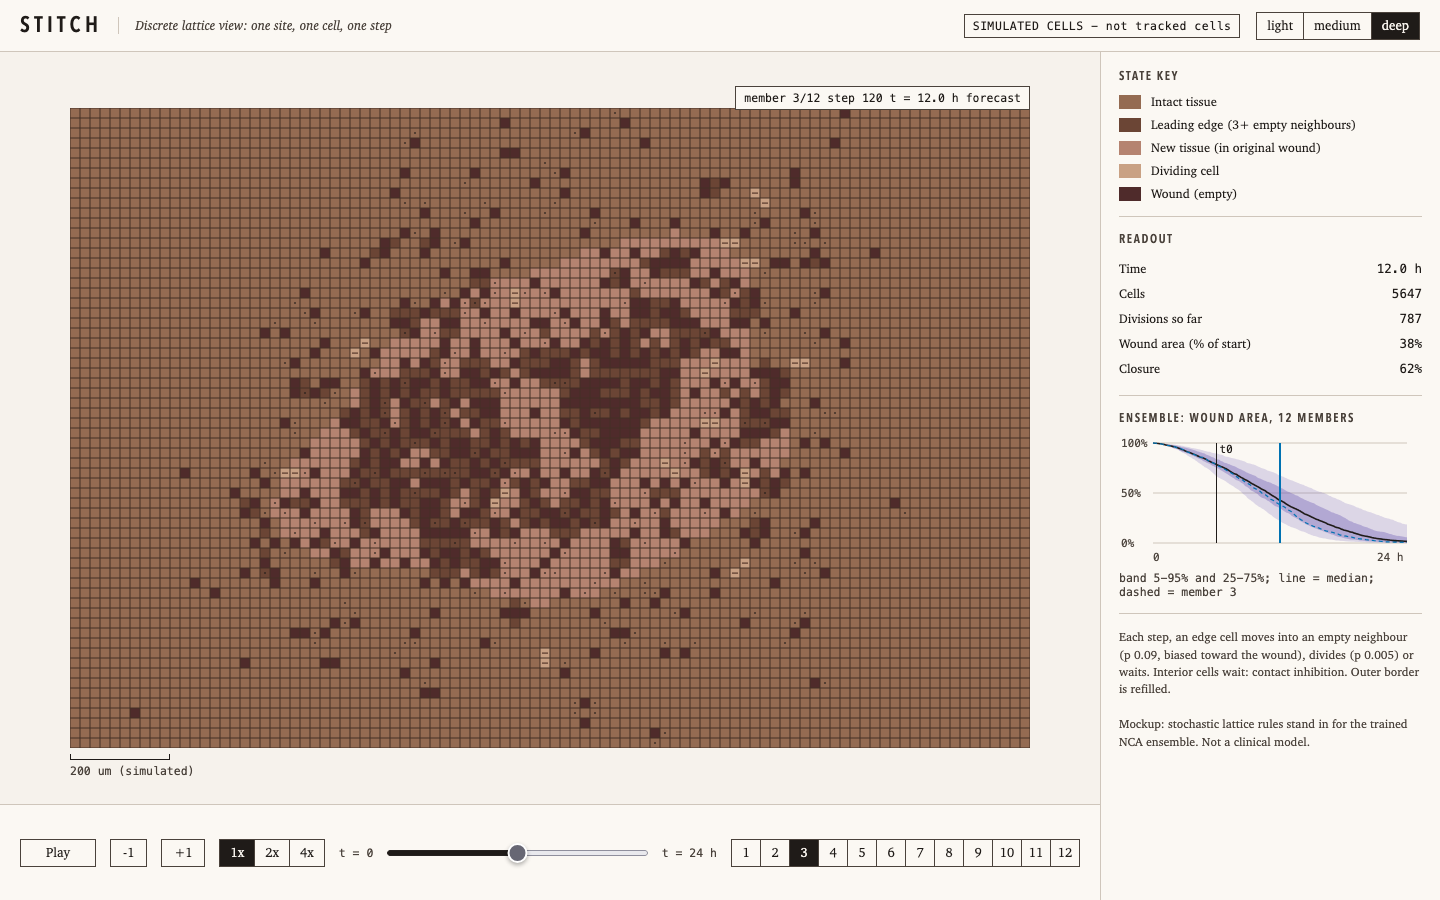
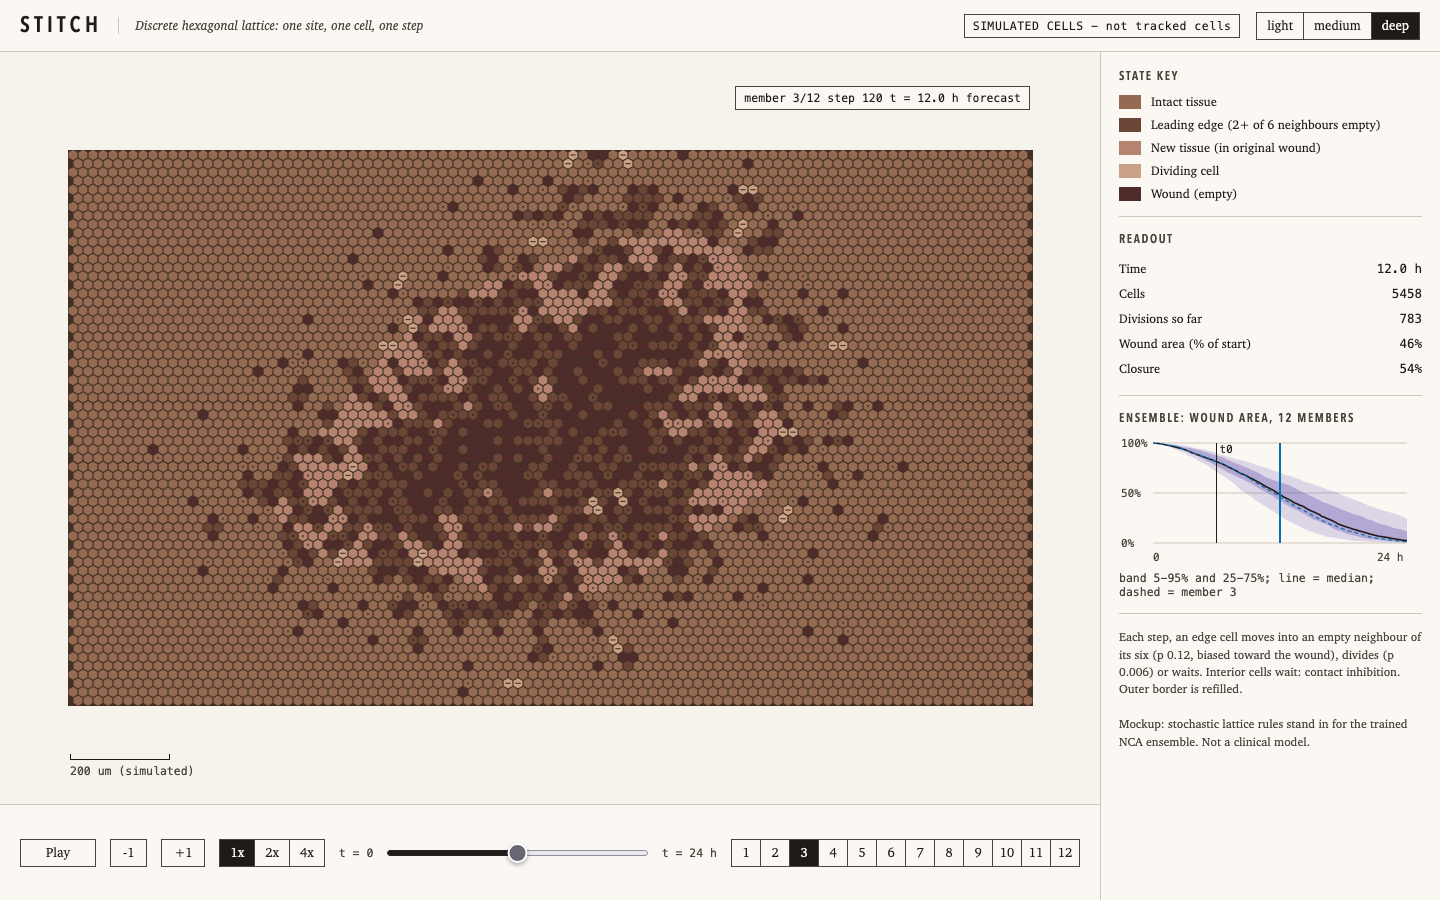
NCA mockups: hexagonal lattice for the discrete grid (M10); organic view shares it

diff --git a/design/shared/ncamock.js b/design/shared/ncamock.js
@@ -6,26 +6,28 @@ const PALS={
   light:{intact:'#E9D3C0',edge:'#C98F7C',div:'#F8EEDC',fresh:'#F3D9D2',wound:'#B0645C'},
   medium:{intact:'#CBA783',edge:'#A87558',div:'#EAD6B4',fresh:'#DDB3A3',wound:'#92514A'},
   deep:{intact:'#946B52',edge:'#6B4535',div:'#C9A184',fresh:'#B58370',wound:'#4F2B2B'}};
-const OPT={W:96,H:64,steps:240,pm:.09,pd:.005,beta:1.6,refill:.07,hoursPerStep:.1,t0:60};
+const OPT={W:96,H:64,steps:240,pm:.12,pd:.006,beta:1.6,refill:.07,hoursPerStep:.1,t0:60};
 const hex=h=>[1,3,5].map(i=>parseInt(h.slice(i,i+2),16));
 const mix=(a,b,t)=>{const A=hex(a),B=hex(b);return'#'+A.map((v,i)=>Math.round(v+(B[i]-v)*t).toString(16).padStart(2,'0')).join('')};
 function rng(seed){let s=seed>>>0;return()=>{s=(s+0x6D2B79F5)>>>0;let t=s;t=Math.imul(t^t>>>15,t|1);t^=t+Math.imul(t^t>>>7,t|61);return((t^t>>>14)>>>0)/4294967296}}
 
+const HY=.8660254,PXc=(x,y)=>x+.5*(y&1)+.5,PYc=y=>y*HY+.5;
+const NBE=[[1,0],[-1,0],[0,-1],[-1,-1],[0,1],[-1,1]],NBO=[[1,0],[-1,0],[1,-1],[0,-1],[1,1],[0,1]];
+const nbrsOf=y=>(y&1)?NBO:NBE;
 function run(seed,record){
   const o=Object.assign({},OPT),W=o.W,H=o.H,N=W*H,R=rng(seed*7919+13),S=rng(5);
   o.pm*=.7+.6*R();o.pd*=.6+.8*R();
-  const cx=.5*W,cy=.5*H,A=.26*W,B=.17*W,rot=-.35,ca=Math.cos(rot),sa=Math.sin(rot);
+  const cx=.5*(W+.5),cy=.5*(H*HY+.134),A=.26*W,B=.17*W,rot=-.35,ca=Math.cos(rot),sa=Math.sin(rot);
   const p1=S()*6.28,p2=S()*6.28;
   const orig=new Uint8Array(N),id=new Int32Array(N).fill(-1);
   const X=[],Y=[],PX=[],PY=[],DIV=[],BORN=[];
   const add=(x,y,px,py,k,born)=>{const c=X.length;X.push(x);Y.push(y);PX.push(px);PY.push(py);DIV.push(-9);BORN.push(born);id[y*W+x]=c;return c};
   let empties0=0;
   for(let y=0;y<H;y++)for(let x=0;x<W;x++){
-    const dx=x+.5-cx,dy=y+.5-cy,u=(dx*ca+dy*sa)/A,v=(-dx*sa+dy*ca)/B,th=Math.atan2(v,u);
+    const dx=PXc(x,y)-cx,dy=PYc(y)-cy,u=(dx*ca+dy*sa)/A,v=(-dx*sa+dy*ca)/B,th=Math.atan2(v,u);
     const rr=Math.hypot(u,v)/(1+.1*Math.sin(3*th+p1)+.07*Math.sin(5*th+p2));
     if(rr<1){orig[y*W+x]=1;empties0++}else add(x,y,x,y,0,0);
   }
-  const nb=[[1,0],[-1,0],[0,1],[0,-1],[1,1],[1,-1],[-1,1],[-1,-1]];
   const area=new Float32Array(o.steps+1),cells=new Int32Array(o.steps+1),divs=new Int32Array(o.steps+1);
   const hist=[];let nd=0,live=X.length;
   function snap(k){
@@ -36,8 +38,8 @@ function run(seed,record){
   }
   snap(0);
   function pick(x,y,list){
-    const d0=Math.hypot(x-cx,y-cy);let w=[],s=0;
-    for(const[nx,ny]of list){const q=Math.exp(o.beta*(d0-Math.hypot(nx-cx,ny-cy)));w.push(q);s+=q}
+    const d0=Math.hypot(PXc(x,y)-cx,PYc(y)-cy);let w=[],s=0;
+    for(const[nx,ny]of list){const q=Math.exp(o.beta*(d0-Math.hypot(PXc(nx,ny)-cx,PYc(ny)-cy)));w.push(q);s+=q}
     let r=R()*s;for(let i=0;i<list.length;i++){r-=w[i];if(r<=0)return list[i]}return list[list.length-1];
   }
   for(let k=1;k<=o.steps;k++){
@@ -46,7 +48,7 @@ function run(seed,record){
     for(let i=alive.length-1;i>0;i--){const j=Math.floor(R()*(i+1));[alive[i],alive[j]]=[alive[j],alive[i]]}
     for(const c of alive){
       const x=X[c],y=Y[c],em=[];
-      for(const[dx,dy]of nb){const nx=x+dx,ny=y+dy;if(nx>=0&&ny>=0&&nx<W&&ny<H&&id[ny*W+nx]<0)em.push([nx,ny])}
+      for(const[dx,dy]of nbrsOf(y)){const nx=x+dx,ny=y+dy;if(nx>=0&&ny>=0&&nx<W&&ny<H&&id[ny*W+nx]<0)em.push([nx,ny])}
       if(!em.length)continue;
       const r=R();
       if(r<o.pm){const[nx,ny]=pick(x,y,em);id[y*W+x]=-1;id[ny*W+nx]=c;X[c]=nx;Y[c]=ny}
@@ -76,7 +78,7 @@ header{grid-column:1/3;display:flex;align-items:center;gap:16px;padding:0 20px;b
 .chip{font:11.5px ui-monospace,Menlo,monospace;border:1px solid var(--ink2);padding:4px 8px;letter-spacing:.04em}
 .seg{display:inline-flex}.seg button{margin-left:-1px;min-height:28px;padding:0 10px}.seg button:first-child{margin-left:0}
 #stage{display:flex;align-items:center;justify-content:center;background:var(--bg);position:relative}
-#cv{width:960px;height:640px;display:block}
+#cv{display:block}
 #scale{position:absolute;left:70px;bottom:26px;font:11.5px ui-monospace,Menlo,monospace;color:var(--ink2)}
 #scale i{display:block;width:100px;height:6px;border:1px solid var(--ink);border-top:0;margin-bottom:4px}
 #tag{position:absolute;right:70px;top:34px;font:11.5px ui-monospace,Menlo,monospace;border:1px solid var(--ink2);background:var(--panel);padding:4px 8px}
@@ -100,7 +102,7 @@ function mount(mode){
   const title=grid?'M10 NCA discrete grid':'M11 NCA organic';
   document.title='Stitch | '+title;
   document.body.innerHTML=`<div id="app">
-<header><span class="word">Stitch</span><span class="sub">${grid?'Discrete lattice view: one site, one cell, one step':'Organic view: the same rules, drawn as moving, dividing cells'}</span><span class="sp"></span>
+<header><span class="word">Stitch</span><span class="sub">${grid?'Discrete hexagonal lattice: one site, one cell, one step':'Organic view: the same rules, drawn as moving, dividing cells'}</span><span class="sp"></span>
 <span class="chip">SIMULATED CELLS - not tracked cells</span>
 <span class="seg" role="group" aria-label="Tissue tone">${['light','medium','deep'].map(t=>`<button data-tone="${t}" aria-pressed="${t===tone}">${t}</button>`).join('')}</span></header>
 <div id="stage"><canvas id="cv"></canvas><div id="tag" class="mono"></div><div id="scale"><i></i>200 um (simulated)</div></div>
@@ -109,7 +111,7 @@ function mount(mode){
 <div class="sec"><h3>Readout</h3><table id="ro"></table></div>
 <div class="sec"><h3>Ensemble: wound area, 12 members</h3><canvas id="ch" width="592" height="260" style="width:296px;height:130px;display:block"></canvas>
 <div class="lab" style="margin-top:6px">band 5-95% and 25-75%; line = median; dashed = member ${member}</div></div>
-<div class="note">${grid?'Each step, an edge cell moves into an empty neighbour (p 0.09, biased toward the wound), divides (p 0.005) or waits. Interior cells wait: contact inhibition. Outer border is refilled.':'Same rules and same numbers as M10. Moves and divisions are interpolated between steps and cells are drawn as soft blobs, so no grid shows. Division = pale cell with two nuclei, then a daughter eases out.'}
+<div class="note">${grid?'Each step, an edge cell moves into an empty neighbour of its six (p 0.12, biased toward the wound), divides (p 0.006) or waits. Interior cells wait: contact inhibition. Outer border is refilled.':'Same rules and same numbers as M10. Moves and divisions are interpolated between steps and cells are drawn as soft blobs, so no grid shows. Division = pale cell with two nuclei, then a daughter eases out.'}
 <br><br>Mockup: stochastic lattice rules stand in for the trained NCA ensemble. Not a clinical model.</div>
 </aside>
 <div id="dock"><button id="pp" aria-label="Play or pause" style="width:76px"></button>
@@ -118,11 +120,11 @@ function mount(mode){
 <span class="lab">t = 0</span><input id="scrub" type="range" min="0" max="${OPT.steps}" step="0.01" aria-label="Time"><span class="lab">t = ${(OPT.steps*OPT.hoursPerStep).toFixed(0)} h</span>
 <span class="seg" id="mem" role="group" aria-label="Ensemble member"></span></div></div>`;
   const $=s=>document.querySelector(s),cv=$('#cv'),ctx=cv.getContext('2d');
-  const dpr=2;cv.width=OPT.W*S*dpr;cv.height=OPT.H*S*dpr;ctx.scale(dpr,dpr);
+  const dpr=2,CW=Math.round((OPT.W+.5)*S),CH=Math.round((OPT.H*HY+.134)*S);cv.width=CW*dpr;cv.height=CH*dpr;cv.style.width=CW+'px';cv.style.height=CH+'px';ctx.scale(dpr,dpr);
   const ens=[];for(let m=1;m<=12;m++)ens.push(run(m,false));
   let cur=run(member,true);
   function legend(){
-    const items=[['intact','Intact tissue'],['edge','Leading edge (3+ empty neighbours)'],['fresh','New tissue (in original wound)'],['div','Dividing cell'],['wound','Wound (empty)']];
+    const items=[['intact','Intact tissue'],['edge','Leading edge (2+ of 6 neighbours empty)'],['fresh','New tissue (in original wound)'],['div','Dividing cell'],['wound','Wound (empty)']];
     $('#leg').innerHTML=items.map(([k,n])=>`<i style="background:${pal[k]}"></i><span>${n}</span>`).join('');
   }
   function ribbon(){
@@ -145,23 +147,24 @@ function mount(mode){
     const W=OPT.W,H=OPT.H,n=OPT.steps,f=Math.min(n-1,Math.floor(pos)),u=pos>=n?1:pos-f;
     const k=grid?Math.min(n,Math.round(pos)):f+1,sn=cur.hist[k],occ=new Uint8Array(W*H).fill(0),cl=sn.length/7;
     for(let i=0;i<sn.length;i+=7)occ[sn[i+2]*W+sn[i+1]]=1;
-    const emptyN=(x,y)=>{let n=0;for(let dy=-1;dy<=1;dy++)for(let dx=-1;dx<=1;dx++){if(!dx&&!dy)continue;const a=x+dx,b=y+dy;if(a>=0&&b>=0&&a<W&&b<H&&!occ[b*W+a])n++}return n>=3};
-    ctx.clearRect(0,0,W*S,H*S);
+    const emptyN=(x,y)=>{let n=0;for(const[dx,dy]of nbrsOf(y)){const a=x+dx,b=y+dy;if(a>=0&&b>=0&&a<W&&b<H&&!occ[b*W+a])n++}return n>=2};
+    ctx.clearRect(0,0,CW,CH);
     if(grid){
-      ctx.fillStyle=mix(pal.intact,'#000000',.55);ctx.fillRect(0,0,W*S,H*S);
+      ctx.fillStyle=mix(pal.intact,'#000000',.55);ctx.fillRect(0,0,CW,CH);
+      const Rh=S/Math.sqrt(3)-.7,hexp=(x,y)=>{const cx=PXc(x,y)*S,cy=PYc(y)*S;ctx.beginPath();for(let a=0;a<6;a++){const t=Math.PI/6+a*Math.PI/3;ctx.lineTo(cx+Rh*Math.cos(t),cy+Rh*Math.sin(t))}ctx.closePath()};
       ctx.fillStyle=pal.wound;
-      for(let y=0;y<H;y++)for(let x=0;x<W;x++)if(!occ[y*W+x])ctx.fillRect(x*S+.5,y*S+.5,S-1,S-1);
+      for(let y=0;y<H;y++)for(let x=0;x<W;x++)if(!occ[y*W+x]){hexp(x,y);ctx.fill()}
       for(let i=0;i<sn.length;i+=7){
-        const x=sn[i+1],y=sn[i+2],div=sn[i+5];
+        const x=sn[i+1],y=sn[i+2],div=sn[i+5],cx=PXc(x,y)*S,cy=PYc(y)*S;
         ctx.fillStyle=div?pal.div:emptyN(x,y)?pal.edge:cur.orig[y*W+x]?pal.fresh:pal.intact;
-        ctx.fillRect(x*S+.5,y*S+.5,S-1,S-1);
-        if(div){ctx.fillStyle=mix(pal.edge,'#000000',.2);ctx.fillRect(x*S+2,y*S+4.5,S-4,1.2)}
-        else if(sn[i+3]!==x||sn[i+4]!==y){ctx.fillStyle='rgba(31,27,24,.55)';ctx.fillRect(x*S+4,y*S+4,2,2)}
+        hexp(x,y);ctx.fill();
+        if(div){ctx.fillStyle=mix(pal.edge,'#000000',.2);ctx.fillRect(cx-2.6,cy-.6,5.2,1.2)}
+        else if(sn[i+3]!==x||sn[i+4]!==y){ctx.fillStyle='rgba(31,27,24,.55)';ctx.fillRect(cx-1,cy-1,2,2)}
       }
     }else{
       const g=ctx.createRadialGradient(cur.cx*S,cur.cy*S,0,cur.cx*S,cur.cy*S,26*S);
       g.addColorStop(0,mix(pal.wound,'#000000',.22));g.addColorStop(1,pal.wound);
-      ctx.fillStyle=g;ctx.fillRect(0,0,W*S,H*S);
+      ctx.fillStyle=g;ctx.fillRect(0,0,CW,CH);
       const e=sm(u),spr={};
       const sprite=col=>{if(spr[col])return spr[col];const c=document.createElement('canvas');c.width=c.height=64;const x=c.getContext('2d'),r=x.createRadialGradient(32,32,0,32,32,32);
         r.addColorStop(0,col);r.addColorStop(.58,col);r.addColorStop(1,col+'00');x.fillStyle=r;x.fillRect(0,0,64,64);return spr[col]=c};
@@ -169,7 +172,7 @@ function mount(mode){
       const hash=c=>{let h=Math.imul(c+1,2654435761)>>>0;return[(h&255)/255,((h>>>8)&255)/255,((h>>>16)&255)/255]};
       for(let i=0;i<sn.length;i+=7){
         const id=sn[i],x=sn[i+1],y=sn[i+2],px=sn[i+3],py=sn[i+4],div=sn[i+5],born=sn[i+6],[a,b,c]=hash(id);
-        let cx=(px+(x-px)*e+.5)*S+(a-.5)*3.4,cy=(py+(y-py)*e+.5)*S+(b-.5)*3.4,sc=.92+c*.3,al=1;
+        const X0=PXc(px,py),Y0=PYc(py),X1=PXc(x,y),Y1=PYc(y);let cx=(X0+(X1-X0)*e)*S+(a-.5)*3.4,cy=(Y0+(Y1-Y0)*e)*S+(b-.5)*3.4,sc=.92+c*.3,al=1;
         if(born===2){sc*=.55+.45*e}else if(born===3){al=e}
         const isEdge=emptyN(x,y),col=div?pal.div:isEdge?pal.edge:cur.orig[y*W+x]?pal.fresh:pal.intact,r=S*sc*1.05;
         ctx.globalAlpha=al;ctx.drawImage(sprite(col),cx-r,cy-r,2*r,2*r);

diff --git a/design/mockups/m10-nca-grid/README.md b/design/mockups/m10-nca-grid/README.md
@@ -1,3 +1,3 @@
 # M10 NCA discrete grid
 
-One lattice site = one cell, stepped. Visible square sites, state colours, a dot on cells that moved, a split mark on dividing cells. Shared engine: `design/shared/ncamock.js` (stochastic lattice rules standing in for the trained NCA ensemble; 12 members; ribbon with t0). Open `index.html` (`?tone=light|medium|deep&member=1-12&p=<step>&play=0`).
+One lattice site = one cell, stepped, on a hexagonal lattice (6 neighbours). Visible hexagonal sites, state colours, a dot on cells that moved, a split mark on dividing cells. Shared engine: `design/shared/ncamock.js` (stochastic lattice rules standing in for the trained NCA ensemble; 12 members; ribbon with t0). Open `index.html` (`?tone=light|medium|deep&member=1-12&p=<step>&play=0`).
